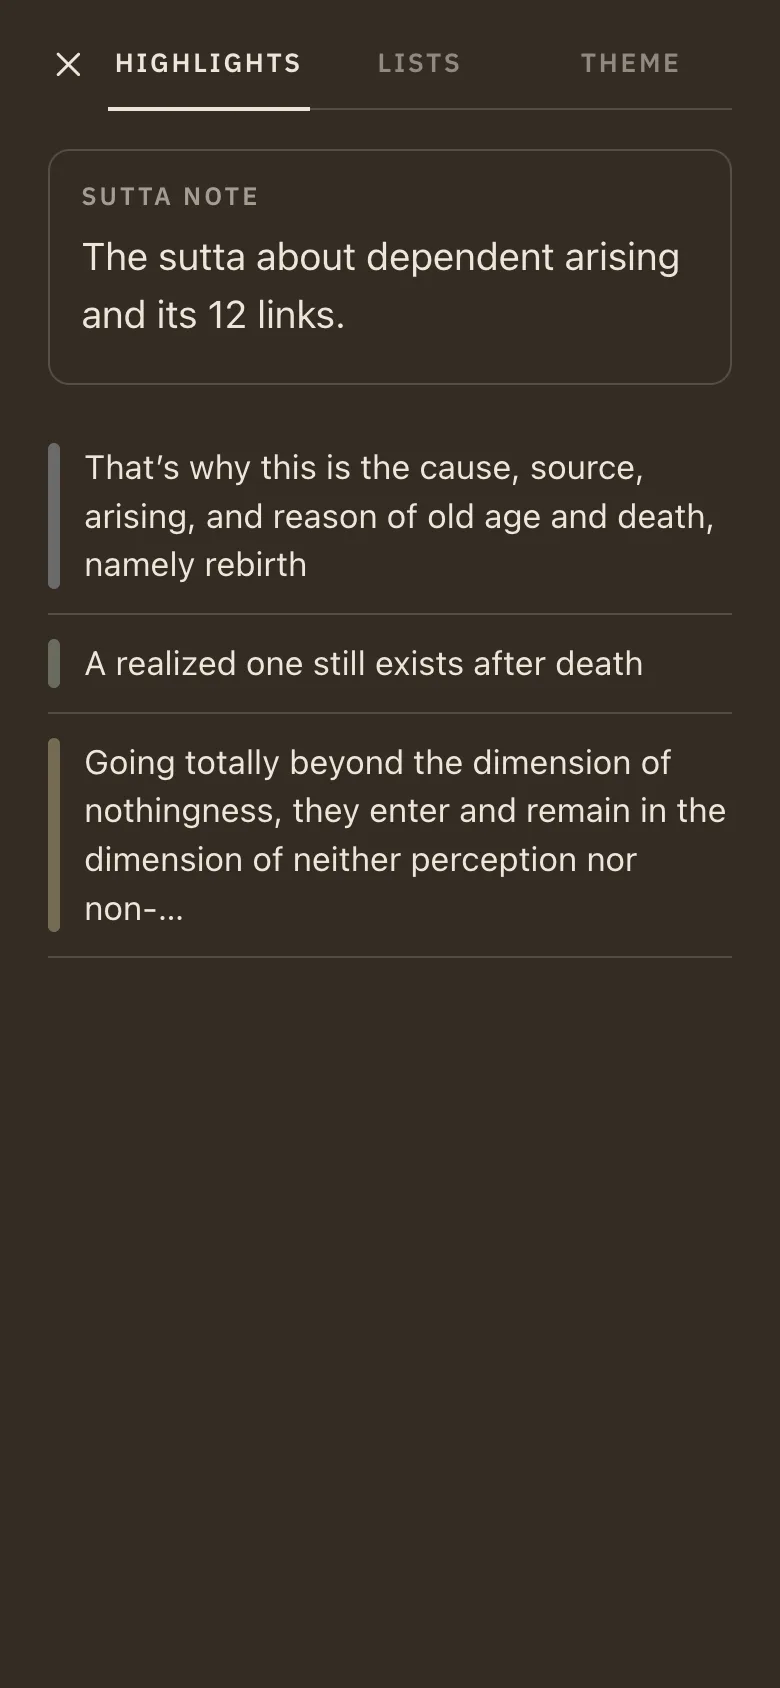
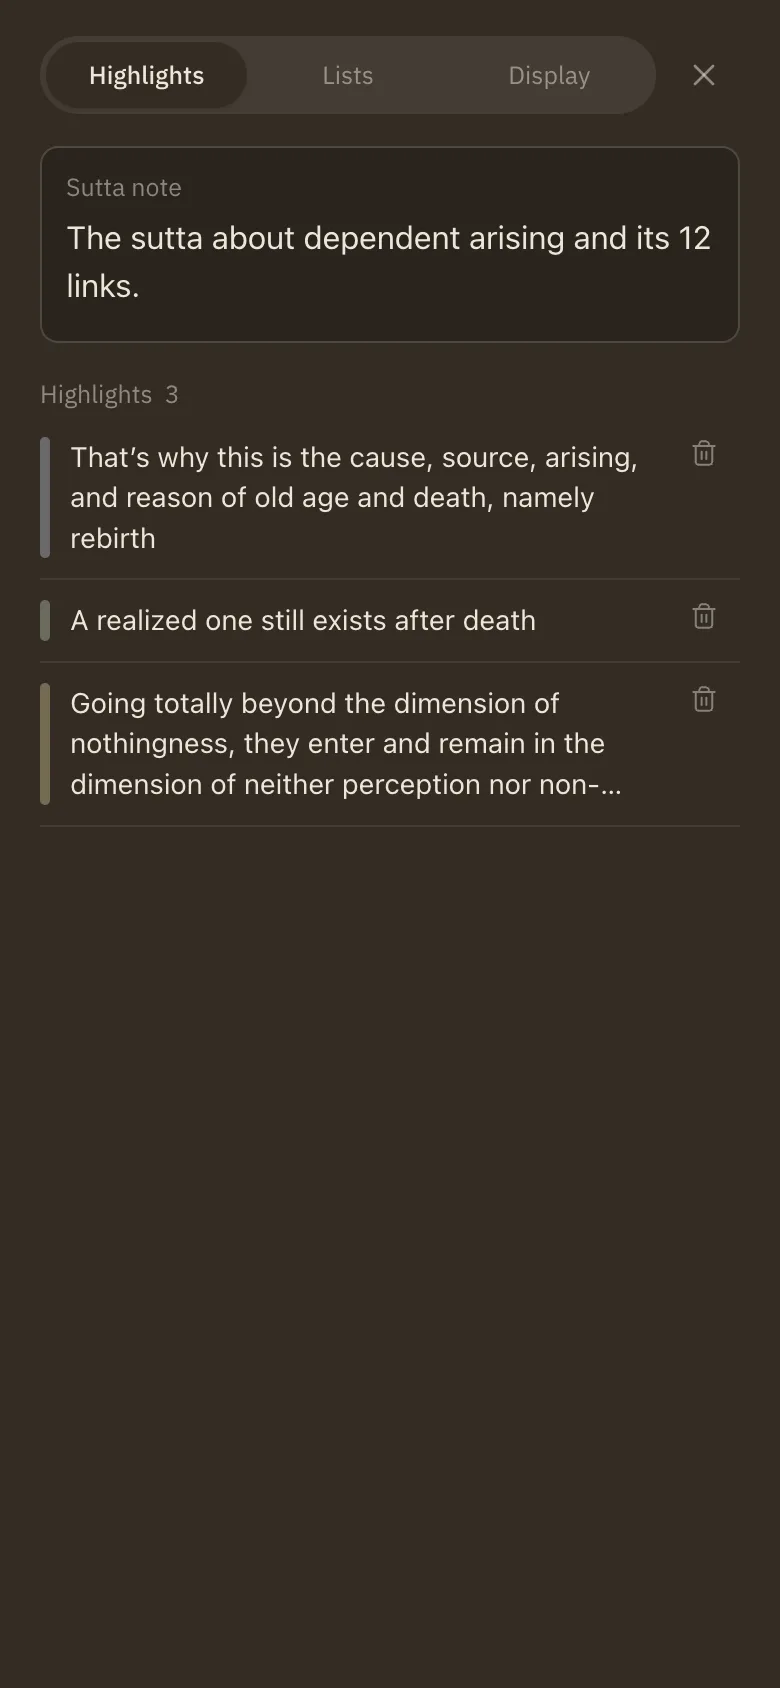
Update Help pages with new design

diff --git a/web/src/pages/HelpPage.tsx b/web/src/pages/HelpPage.tsx
@@ -148,13 +148,11 @@ const SECTIONS: HelpSection[] = [
         name: 'reader-mobile.webp',
         title: 'The menu',
         marks: [
-          [13.4, 5.9],
-          [85.5, 5.7],
-          [25.0, 37.4],
-          [52.6, 37.4],
-          [80.9, 37.4],
-          [60.3, 87.5],
-          [12.4, 97.2],
+          [11.9, 5.2],
+          [87.7, 5.2],
+          [19.0, 38.9],
+          [45.6, 38.9],
+          [70.9, 38.9],
         ],
         steps: [
           'Close the Reader.',
@@ -162,8 +160,6 @@ const SECTIONS: HelpSection[] = [
           'Your Highlights & Notes.',
           'List management.',
           'Theme, type size and typeface.',
-          'You may trigger the Pali to show at all times.',
-          'Enable Bhikkhu Sujato\'s original footnotes.',
         ],
       },
     ],
@@ -182,7 +178,7 @@ const SECTIONS: HelpSection[] = [
         marks: [
           [4.5, 14.6],
           [25.0, 21.9],
-          [64.7, 95.8],
+          [60.7, 91.8],
           [88.0, 22.5],
         ],
         steps: [
@@ -197,12 +193,12 @@ const SECTIONS: HelpSection[] = [
         name: 'highlights-tab-mobile.webp',
         title: 'Highlights Tab',
         marks: [
-          [38.8, 11.6],
-          [88.6, 39.3],
+          [29.5, 11.3],
+          [66.7, 28.7],
         ],
         steps: [
           'Add or change your note.',
-          'Tap a highlight to scroll to it in the Reader.',
+          'Tap a highlight to scroll to it in the Reader. Tap the bin on the right to remove it.',
         ],
       },
     ],
@@ -234,14 +230,14 @@ const SECTIONS: HelpSection[] = [
         name: 'lists-items-mobile.webp',
         title: 'Inside a list',
         marks: [
-          [82.6, 4.2],
-          [90.5, 32.2],
-          [55.9, 81.2],
+          [82.6, 4.7],
+          [92.5, 32.2],
+          [5.8, 32.2],
         ],
         steps: [
           'Toggle the re-ordering of suttas within a list. Sort them by your own criteria.',
           'Drag the handle to move a sutta to a different position.',
-          'Your notes are also displayed in the Library in place of the sutta summary.',
+          'Remove it from the list.',
         ],
       },
     ],
@@ -272,10 +268,10 @@ const SECTIONS: HelpSection[] = [
         name: 'lists-tab-mobile.webp',
         title: 'The Lists tab',
         marks: [
-          [21.1, 10.8],
-          [30.7, 16.4],
-          [51.1, 32.2],
-          [54.3, 37.2],
+          [21.1, 11.0],
+          [30.7, 16.0],
+          [45.7, 27.9],
+          [50.7, 31.8],
         ],
         steps: [
           'Type the nameo of a list or group that you\'d like to add this sutta too. Press Enter to toggle its membership.',

diff --git a/web/src/components/TreePane.tsx b/web/src/components/TreePane.tsx
@@ -660,7 +660,7 @@ export function TreePane({
         onClick={() => navigate('/help')}
       >
         <CircleHelp size={15} strokeWidth={2} className="flex-none text-ink/35" />
-        {Object.keys(visited).length < HELP_ONBOARDING_VISITS ? 'How to use Sutamaya' : 'Help'}
+        {Object.keys(visited).length < HELP_ONBOARDING_VISITS ? 'How to use this app' : 'Help'}
       </button>
     </aside>
   );
